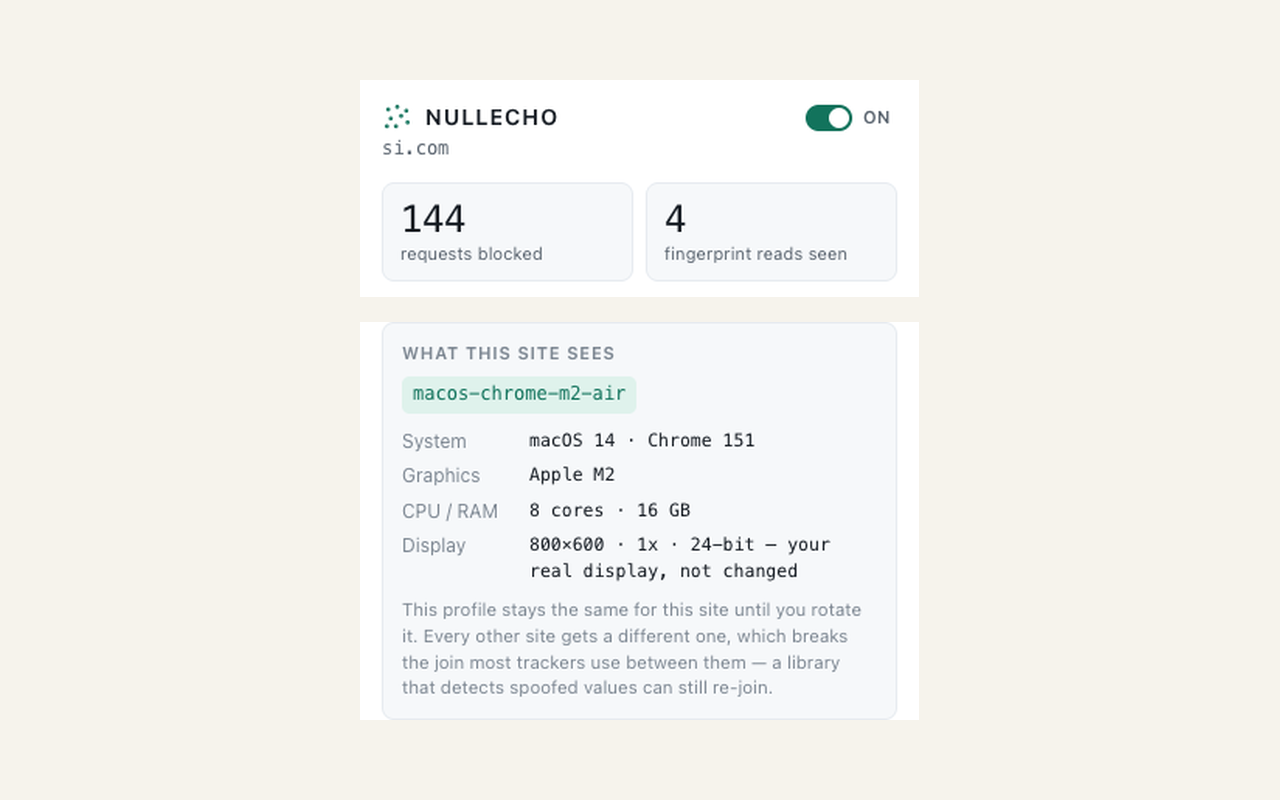
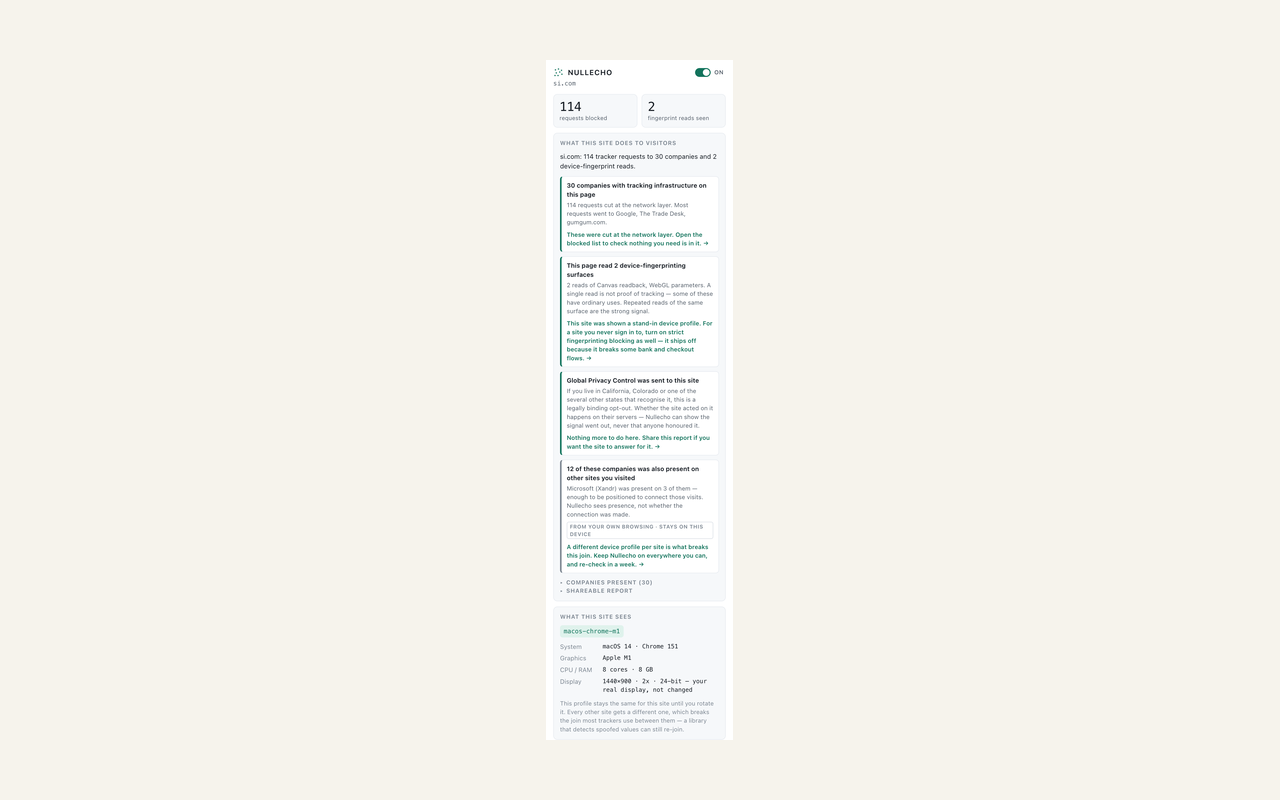
docs/store: fix screenshot 1's screen realism + seam, regenerate promo tile
Director review (2026-09-24), second pass on screenshot 1:

1. Display row read "800×600 · 1x" (Chrome for Testing headless default). Fixed at the
   browser level with a launch flag, `--screen-info={0,0 2880x1800 devicePixelRatio=2}`,
   so every target — including the extension popup, which rejects a later per-target CDP
   `Emulation.setDeviceMetricsOverride` outright ("Target does not support metrics
   override", verified directly) — gets a realistic screen. Chrome's `--screen-info` takes
   PHYSICAL pixels + a devicePixelRatio; logical (JS-visible) screen.width/height is
   physical ÷ dpr, verified empirically (2880x1800 @2 reads back as 1440x900 @2, matching
   what was asked). openRealPopup() now asserts screen.width=1440, screen.height=900,
   devicePixelRatio=2 before any capture proceeds, and throws if not.

2. The composite showed two crops with a visible band of the canvas's own #f6f3ec between
   them — different from the popup's own white, so it read as cut-and-pasted. Replaced the
   two-crop approach with captureContinuousPopup(): walks the popup's own scrollbar in
   EXACT, non-overlapping, viewport-height steps (window.scrollTo(0,0), (0,600), (0,1200),
   …), screenshotting the full viewport at each stop. Because each slice starts exactly
   where the previous slice's captured rows ended, stacking them at zero gap
   (composeContinuousPopupOnPlainBackground()) reconstructs the popup's real, continuous
[…]

diff --git a/docs/store/screenshots/README.md b/docs/store/screenshots/README.md
@@ -2,7 +2,7 @@
 
 One line per image: what it shows, the URL/state it was captured from, the capture date, and the command that reproduces it. See `docs/store/SCREENSHOT-PLAN.md` for the full plan and `harness/store-screenshots.mjs` for the capture script.
 
-- `01-popup-blocking-persona.png` — Toolbar popup — 144 requests blocked, 4 fingerprint reads seen, and the "What this site sees" device persona (system, graphics, CPU/RAM, display), on a plain #f6f3ec background (no third-party page content in frame; the popup's own small label still names the real site measured, si.com). Captured 2026-09-23 from: Real load of https://www.si.com/nba in Chrome for Testing with the unpacked extension, settled/scrolled for several seconds so trackers actually fired; popup opened via chrome.action.openPopup(). The host page's own screenshot was discarded — only the popup (two real, unedited crops of it) was composited onto the plain background. Reproduce: `node harness/store-screenshots.mjs 1`
+- `01-popup-blocking-persona.png` — Toolbar popup — 114 requests blocked, 2 fingerprint reads seen, and the "What this site sees" device persona (system, graphics, CPU/RAM, display, now reading the REAL screen — see below), on a plain #f6f3ec background (no third-party page content in frame; the popup's own small label still names the real site measured, si.com). Appears as one continuous panel: reconstructed from 3 real, exact-viewport-height scroll captures of the popup (`window.scrollTo(0,0)`, `(0,600)`, …) stacked at zero gap, never an approximate scroll — each slice's last captured row is the document row directly before the next slice's first, so there is no seam and nothing between them but real popup content (including the real "What this site does to visitors" report panel, not hidden). Captured 2026-09-23 from: Real load of https://www.si.com/nba in Chrome for Testing with the unpacked extension, settled/scrolled for several seconds so trackers actually fired; popup opened via chrome.action.openPopup(). The host page's own screenshot was discarded — only the popup (3 real, unedited scroll-position captures of it, stitched with zero gap) was composited onto the plain background. Browser launched with `--screen-info={0,0 2880x1800 devicePixelRatio=2}` so every target — including the popup, which refuses a later per-target CDP metrics override — reports a real screen (verified before capture: screen.width=1440, screen.height=900, devicePixelRatio=2), which is why the Display row no longer reads the headless default of 800×600. Reproduce: `node harness/store-screenshots.mjs 1`
 - `02-popup-price-disclosure.png` — Toolbar popup showing the price-disclosure panel: "This page carries New York’s algorithmic-pricing disclosure" and the published price (Price published on this page: 128.00 USD). Captured 2026-09-23 from: Local fixture page (harness/fixtures/pricing-disclosure.html, served over http:// — file:// is excluded by the content script's matches list) carrying the exact N.Y. Gen. Bus. Law § 349-a sentence and a schema.org Offer with a machine-readable price. No live retailer page reliably carries both without a login (research/NY-349A-COMPLIANCE-SWEEP.md); this stands in rather than misrepresenting a real business. Reproduce: `node harness/store-screenshots.mjs 2`
 - `03-options-blocking-gpc.png` — Options page — blocking-category toggles (ads, analytics, social, fingerprinting) and the Global Privacy Control section, light mode. Captured 2026-09-23 from: chrome-extension://<id>/options/options.html#blocking in the same running install, light mode forced via emulateMediaFeatures. Reproduce: `node harness/store-screenshots.mjs 3`
 - `04-options-limits.png` — Options page — "What Nullecho can’t do": the honesty/limits section (detectability, Firefox/Brave being stronger, IP/TLS out of reach, WASM fingerprinting, etc.), light mode. Captured 2026-09-23 from: chrome-extension://<id>/options/options.html#limits in the same running install, light mode forced via emulateMediaFeatures. Reproduce: `node harness/store-screenshots.mjs 4`
